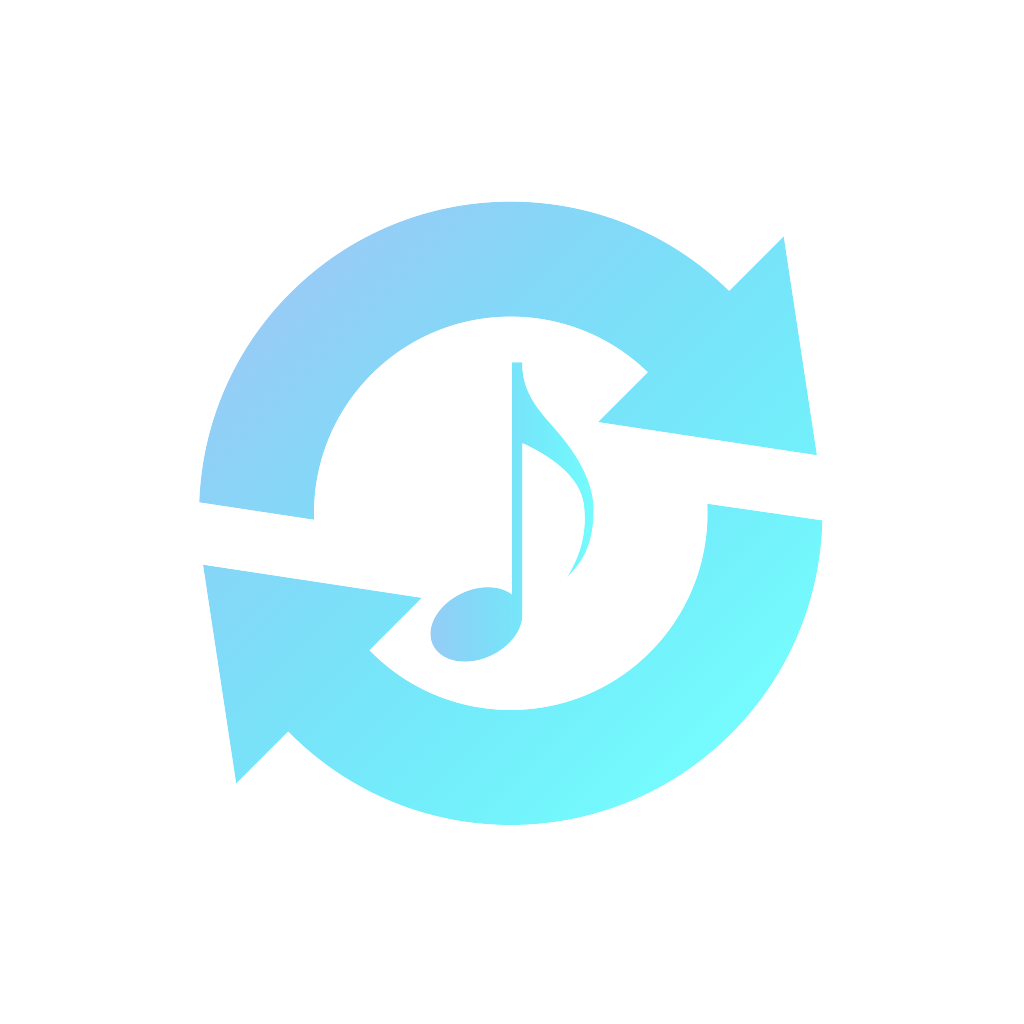
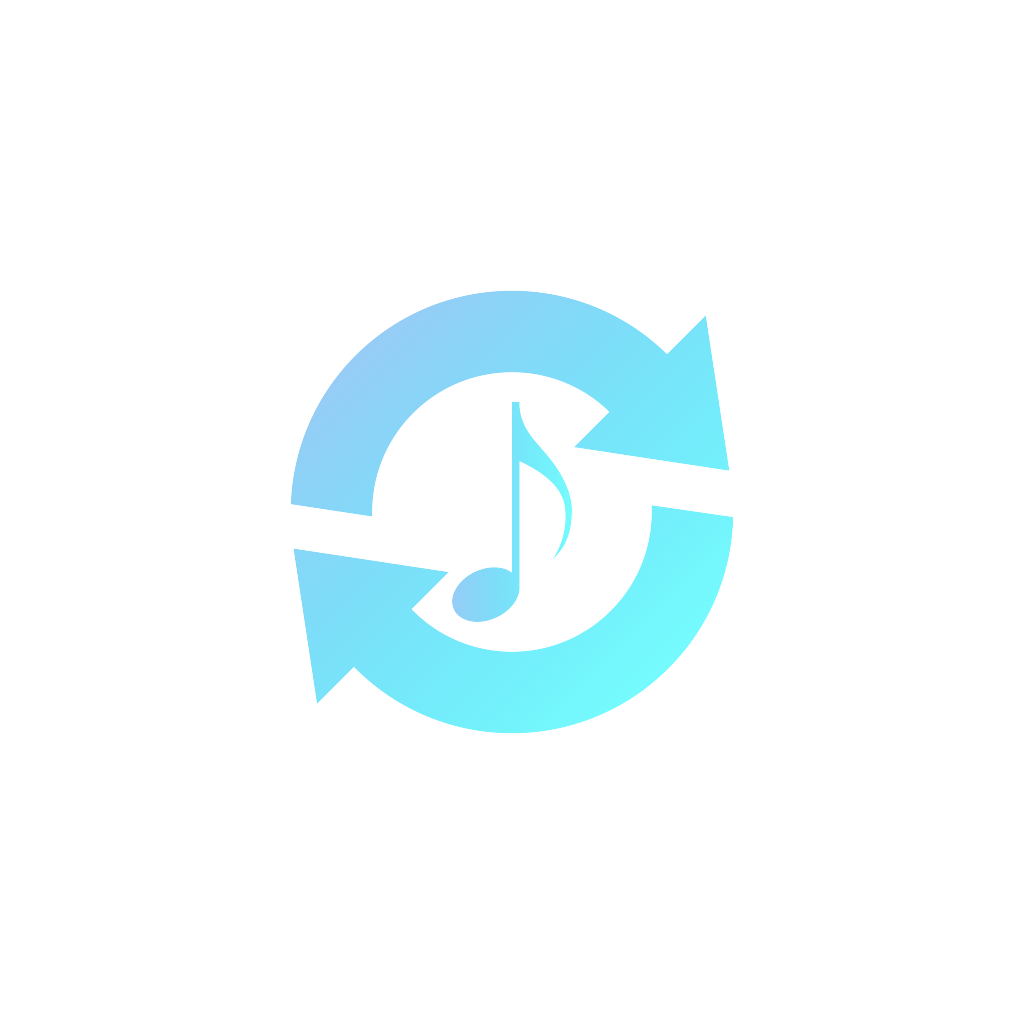
スプラッシュスクリーン作成

Changed region(s): [[0.1875, 0.1875, 0.8125, 0.8125]]

diff --git a/lib/main.dart b/lib/main.dart
@@ -6,6 +6,7 @@ import 'package:flutter_share/flutter_share.dart';
 import 'package:simple_resumaker/pages/add_pdf_page.dart';
 import 'package:simple_resumaker/pages/create_pdf.dart';
 import 'package:simple_resumaker/pages/pdf_view.dart';
+import 'package:simple_resumaker/pages/splash_screen.dart';
 import 'package:simple_resumaker/utils/admob.dart';
 import 'package:simple_resumaker/utils/db_provider.dart';
 
@@ -23,36 +24,23 @@ class MyApp extends StatelessWidget {
       theme: ThemeData(
         primarySwatch: Colors.blue,
       ),
-      home: FutureBuilder(
-        future: setting(),
-        builder:(BuildContext context, AsyncSnapshot snapshot) {
-          if(snapshot.connectionState == ConnectionState.done) {
-            return HomePage();
-          } else {
-            return Container();
-          }
-        },
-      ),
+      home: SplashScreen()
     );
   }
 
-  Future<void> setting() async {
-    AdMob.deviceData =  await AdMob.getDeviceData();
-  }
 }
 
 class HomePage extends StatefulWidget {
-  HomePage({Key key, this.title}) : super(key: key);
+  HomePage({Key key, this.title, this.setDb}) : super(key: key);
 
   final String title;
+  final Function setDb;
 
   @override
   _HomePageState createState() => _HomePageState();
 }
 
 class _HomePageState extends State<HomePage> {
-
-  List<SaveData> dbData = [];
 
   Future<void> setDb() async{
     await DbProvider.setDb();
@@ -67,13 +55,13 @@ class _HomePageState extends State<HomePage> {
   void initState() {
     super.initState();
 
-    setDb();
   }
 
   @override
   Widget build(BuildContext context) {
     return Scaffold(
       appBar: AppBar(
+        elevation: 5,
         centerTitle: true,
         title: Text('Our Score'),
         flexibleSpace: Container(
@@ -155,6 +143,7 @@ class _HomePageState extends State<HomePage> {
         ),
       ),
       bottomNavigationBar: BottomAppBar(
+        elevation: 5,
         color: Colors.lightBlueAccent,
         notchMargin: 6.0,
         shape: AutomaticNotchedShape(

diff --git a/lib/pages/splash_screen.dart b/lib/pages/splash_screen.dart
@@ -1,0 +1,87 @@
+import 'dart:async';
+import 'package:flutter/cupertino.dart';
+import 'package:flutter/material.dart';
+import 'package:simple_resumaker/main.dart';
+import 'package:simple_resumaker/model/model.dart';
+import 'package:simple_resumaker/utils/admob.dart';
+import 'package:simple_resumaker/utils/db_provider.dart';
+
+List<SaveData> dbData = [];
+
+class SplashScreen extends StatefulWidget {
+  @override
+  _SplashScreenState createState() => _SplashScreenState();
+}
+
+class _SplashScreenState extends State<SplashScreen> {
+  bool _initialized = false;
+  bool _expired = false;
+  bool _visible = false;
+
+
+  @override
+  void initState() {
+    super.initState();
+
+    _changeVisible();
+    _initialize();
+    _startTimer();
+  }
+
+  @override
+  Widget build(BuildContext context) {
+    return Scaffold(
+      backgroundColor: Colors.white,
+      body: Center(
+        child: AnimatedOpacity(
+          opacity: _visible ? 1.0 : 0.0,
+          duration: Duration(seconds: 2),
+          child: Container(
+            width: MediaQuery.of(context).size.width*0.8,
+            child: Image.asset('assets/image/app_icon.gif')
+          ),
+        ),
+      ),
+    );
+  }
+
+  _changeVisible() async {
+    Timer(Duration(seconds: 1),(){
+      _visible = true;
+      setState(() {
+      });
+    });
+  }
+
+  Future<void> setDb() async{
+    await DbProvider.setDb();
+    dbData = await DbProvider.getData();
+
+    setState(() {
+
+    });
+  }
+
+  _initialize() async {
+    AdMob.deviceData =  await AdMob.getDeviceData();
+    setDb();
+
+    _initialized = true;
+    _moveToMainScreen();
+  }
+
+  _startTimer() async {
+    Timer(Duration(milliseconds: 3700),(){
+      _expired = true;
+      _moveToMainScreen();
+    });
+  }
+
+  _moveToMainScreen(){
+    if (_initialized && _expired) {
+      Navigator.pushReplacement(context, MaterialPageRoute(
+          builder: (context) => HomePage(setDb: setDb)
+      ));
+    }
+  }
+}
